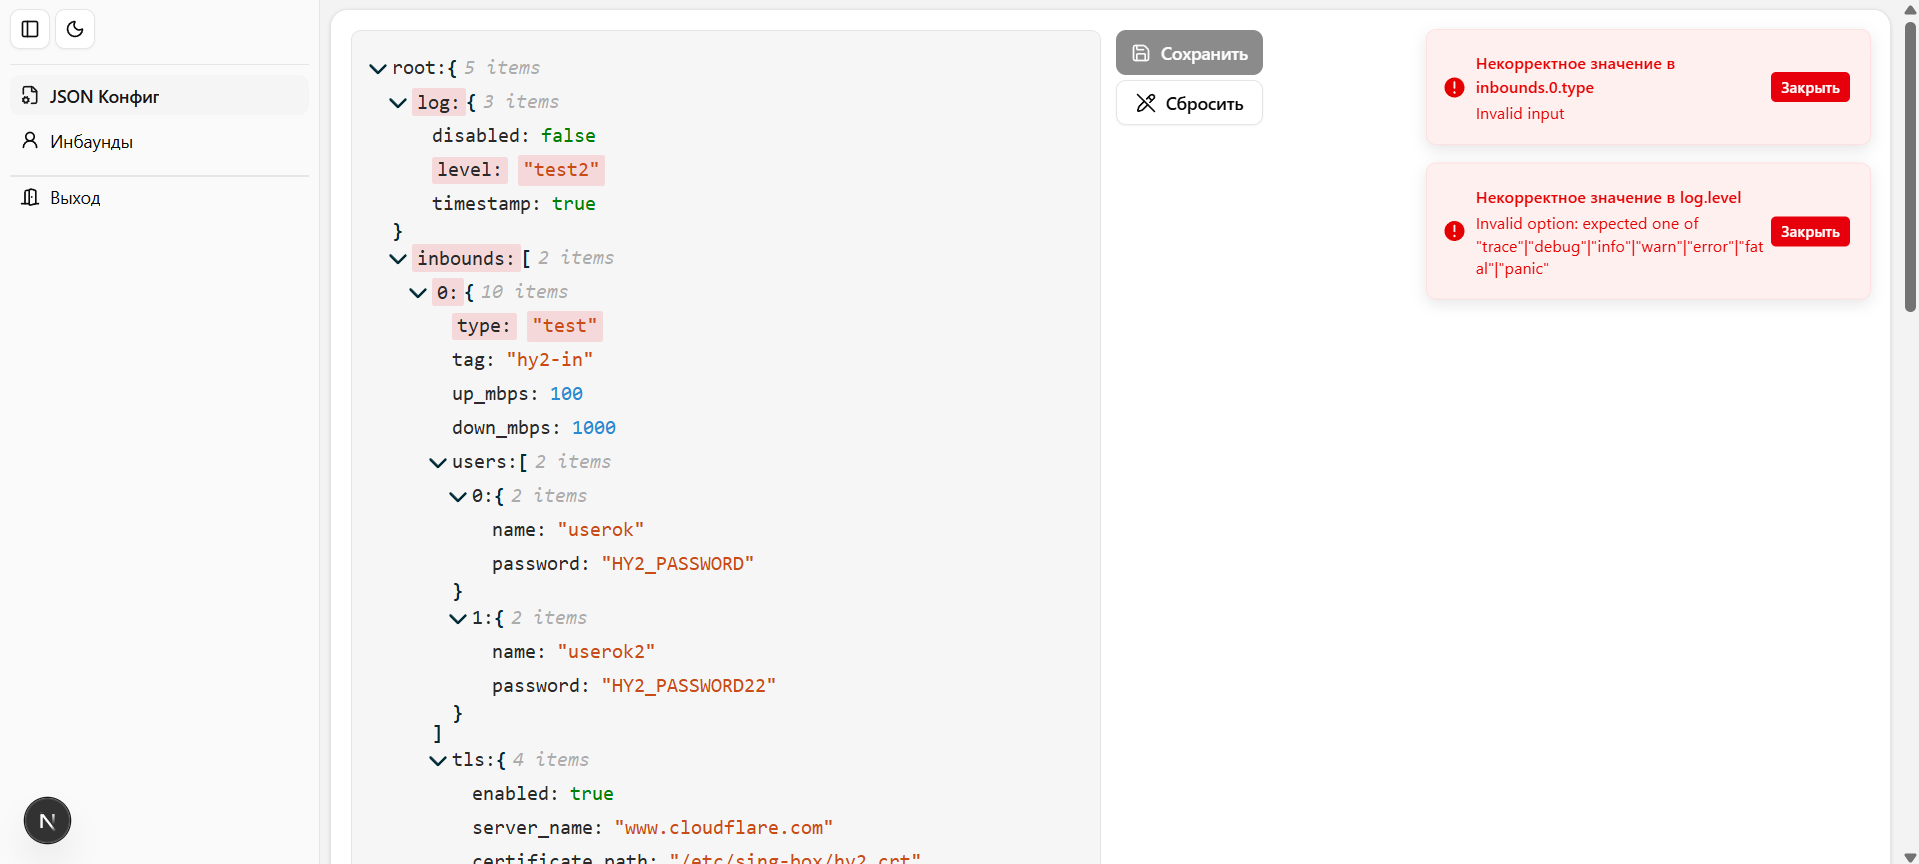
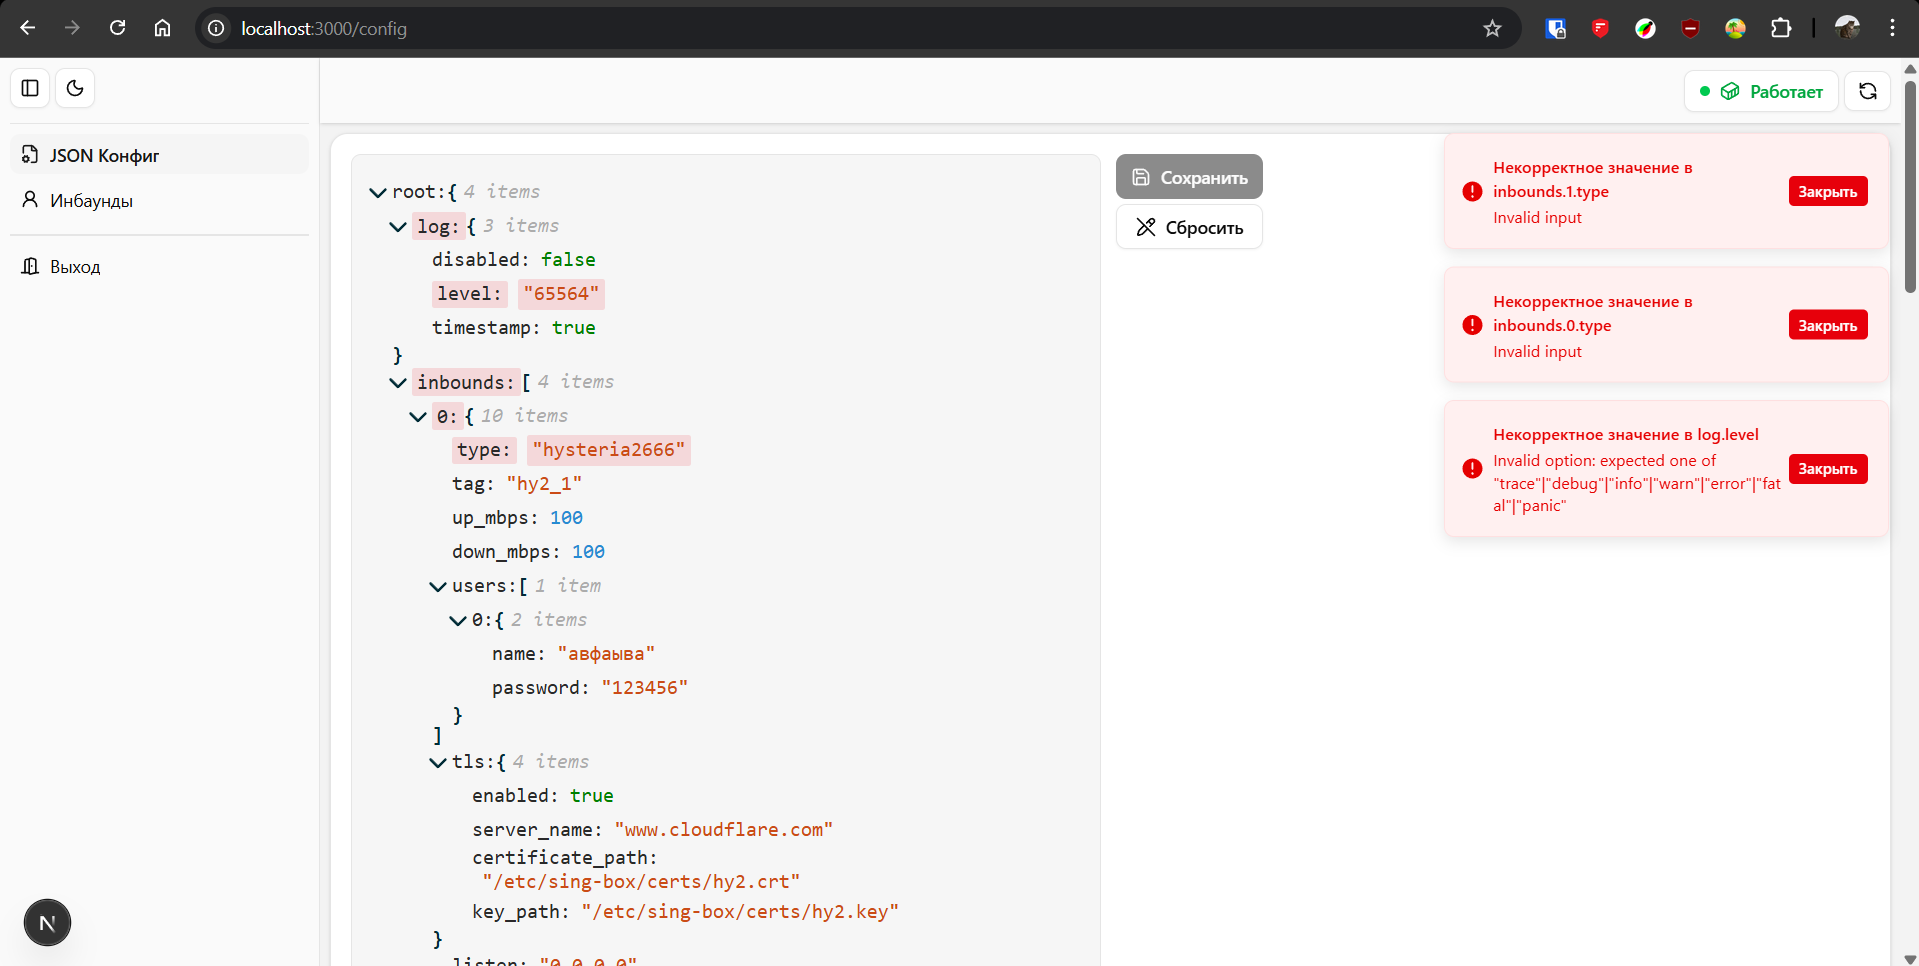
🚀 feat(toast): добавлены новые позиции для уведомлений и обновлены компоненты

diff --git a/src/shared/ui/sonner/toasters.tsx b/src/shared/ui/sonner/toasters.tsx
@@ -2,30 +2,66 @@ import { toast } from "sonner";
 
 export const infraToast = {
   error: (msg: string, opts?: Parameters<typeof toast.error>[1]) =>
-    toast.error(msg, { position: "bottom-left", ...opts }),
+    toast.error(msg, {
+      position: "bottom-left",
+      toasterId: "bottom-left",
+      ...opts,
+    }),
   success: (msg: string, opts?: Parameters<typeof toast.success>[1]) =>
-    toast.success(msg, { position: "bottom-left", ...opts }),
+    toast.success(msg, {
+      position: "bottom-left",
+      toasterId: "bottom-left",
+      ...opts,
+    }),
   loading: (msg: string, opts?: Parameters<typeof toast.loading>[1]) =>
-    toast.loading(msg, { position: "bottom-left", ...opts }),
+    toast.loading(msg, {
+      position: "bottom-left",
+      toasterId: "bottom-left",
+      ...opts,
+    }),
   dismiss: (id?: string | number) => toast.dismiss(id),
 };
 
 export const clientToast = {
   error: (msg: string, opts?: Parameters<typeof toast.error>[1]) =>
-    toast.error(msg, { position: "top-right", ...opts }),
+    toast.error(msg, {
+      position: "top-right",
+      toasterId: "top-right",
+      ...opts,
+    }),
   success: (msg: string, opts?: Parameters<typeof toast.success>[1]) =>
-    toast.success(msg, { position: "top-right", ...opts }),
+    toast.success(msg, {
+      position: "top-right",
+      toasterId: "top-right",
+      ...opts,
+    }),
   loading: (msg: string, opts?: Parameters<typeof toast.loading>[1]) =>
-    toast.loading(msg, { position: "top-right", ...opts }),
+    toast.loading(msg, {
+      position: "top-right",
+      toasterId: "top-right",
+      ...opts,
+    }),
   dismiss: (id?: string | number) => toast.dismiss(id),
 };
 
 export const serverToast = {
   error: (msg: string, opts?: Parameters<typeof toast.error>[1]) =>
-    toast.error(msg, { position: "top-center", ...opts }),
+    toast.error(msg, {
+      position: "top-center",
+      toasterId: "top-center",
+      ...opts,
+    }),
   success: (msg: string, opts?: Parameters<typeof toast.success>[1]) =>
-    toast.success(msg, { position: "top-center", ...opts }),
+    toast.success(msg, {
+      position: "top-center",
+      toasterId: "top-center",
+      ...opts,
+    }),
   loading: (msg: string, opts?: Parameters<typeof toast.loading>[1]) =>
-    toast.loading(msg, { position: "top-center", ...opts }),
+    toast.loading(msg, {
+      position: "top-center",
+      toasterId: "top-center",
+      ...opts,
+    }),
   dismiss: (id?: string | number) => toast.dismiss(id),
 };

diff --git a/src/shared/ui/sonner/sonner.tsx b/src/shared/ui/sonner/sonner.tsx
@@ -3,5 +3,30 @@
 import { Toaster as Sonner } from "sonner";
 
 export function Toaster() {
-  return <Sonner richColors duration={Infinity} />;
+  return (
+    <>
+      <Sonner
+        richColors
+        duration={Infinity}
+        id="top-center"
+        offset={{ top: "60px" }}
+        position="top-center"
+      />
+
+      <Sonner
+        richColors
+        duration={Infinity}
+        id="top-right"
+        offset={{ top: "60px", right: "10px" }}
+        position="top-right"
+      />
+
+      <Sonner
+        richColors
+        duration={Infinity}
+        id="bottom-left"
+        position="bottom-left"
+      />
+    </>
+  );
 }

diff --git a/src/features/sing-box/inbounds/ui/dialogs/EditInboundDialog.tsx b/src/features/sing-box/inbounds/ui/dialogs/EditInboundDialog.tsx
@@ -104,12 +104,13 @@ export function EditInboundDialog({
     serverToast.loading("Сохранение...", { id: "edit-inbound" });
 
     try {
-      if (!inbound.tag) {
+      if (!currentInboundTag) {
         serverToast.error("Инбаунд должен иметь тег для редактирования", {
           id: "edit-inbound",
         });
         return;
       }
+
       await editInbound(currentInboundTag, values);
       serverToast.success("Инбаунд успешно обновлен", {
         id: "edit-inbound",
